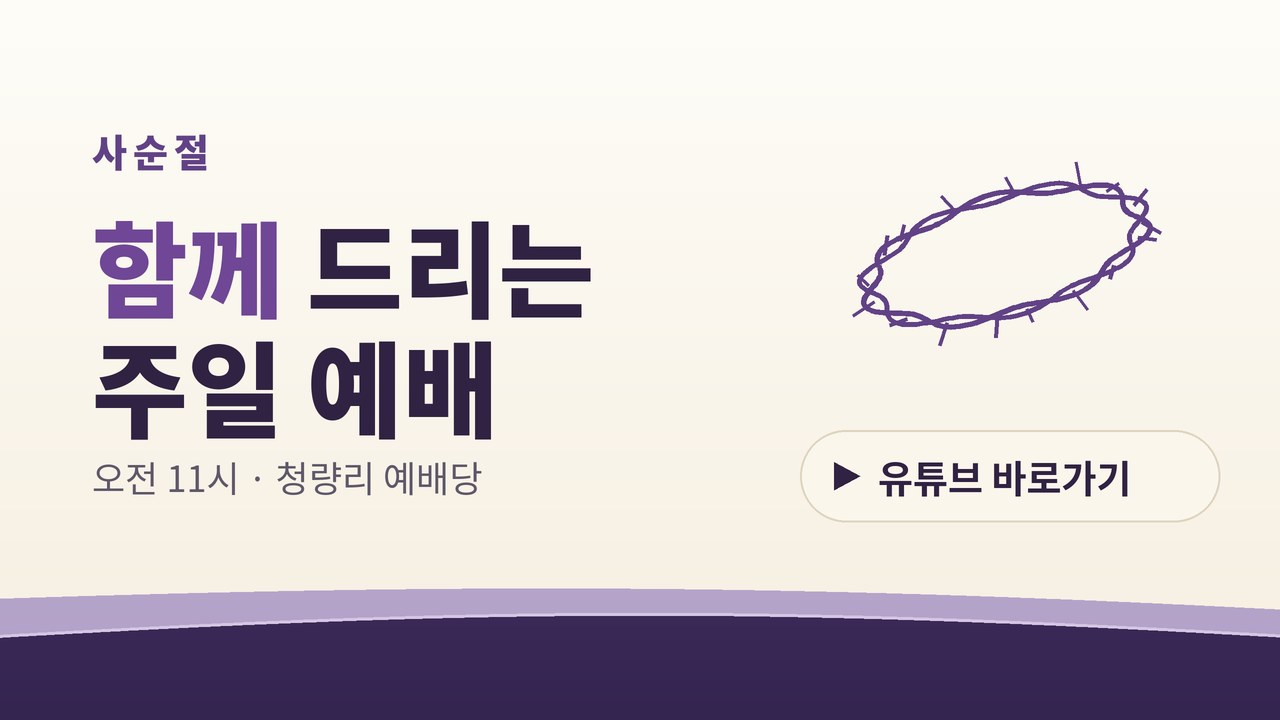
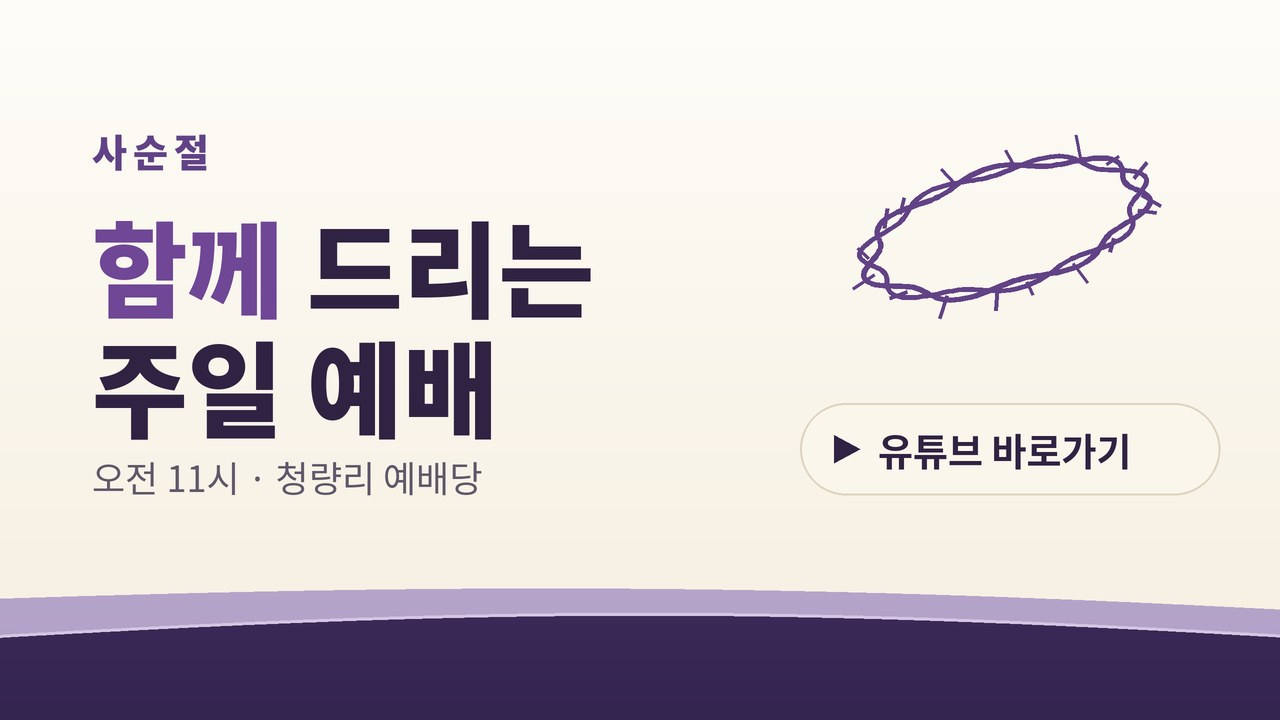
사순절 배너: 가시관 윗선=라벨 윗선, 버튼 아랫선=예배 시간 줄 아랫선
Claude-Session: https://claude.ai/code/session_01SUQQLDh1VZ9DJkmDKHFesn

Changed region(s): [[0.6562, 0.2139, 0.9062, 0.4583], [0.625, 0.5806, 0.9062, 0.7028]]

diff --git a/index.html b/index.html
@@ -718,7 +718,7 @@ function kidsBanner() {   // 어린이 채널 배너(표지 1장) → 채널로 
 const SUNDAY_LIST = 'https://www.youtube.com/playlist?list=PLXuDDjm7EXZo', DAWN_LIST = 'https://www.youtube.com/playlist?list=PLderqM7aVwPk';   // 재생목록 주소를 받으면 여기만 바꾼다
 // 주일 카드: 절기별 배너(마지막 날짜까지). 이후는 기본 배너. 미리보기는 주소 끝에 ?d=2026-12-06
 const SUNDAY_SEASON = [['2026-11-22', 'sunday-creation'], ['2026-12-23', 'sunday-advent'], ['2026-12-30', 'sunday-christmas'], ['2027-01-03', 'sunday-newyear'], ['2027-02-09', 'sunday-epiphany'], ['2027-03-27', 'sunday-lent']];
-const IMG_V = '?v=20261119g';   // 배너 이미지를 바꿀 때 이 날짜도 바꾼다(휴대폰에 남은 옛 이미지 방지)
+const IMG_V = '?v=20261119h';   // 배너 이미지를 바꿀 때 이 날짜도 바꾼다(휴대폰에 남은 옛 이미지 방지)
 function listCard(href, src, label) {   // 가로 배너 한 장 → 유튜브 재생목록
   const t = make('a', 'vthumb kbanner'); t.href = href; t.target = '_blank'; t.rel = 'noopener'; t.setAttribute('aria-label', label);
   const img = make('img'); img.src = src + IMG_V; img.alt = label; img.loading = 'lazy'; img.decoding = 'async'; t.append(img); return t;
